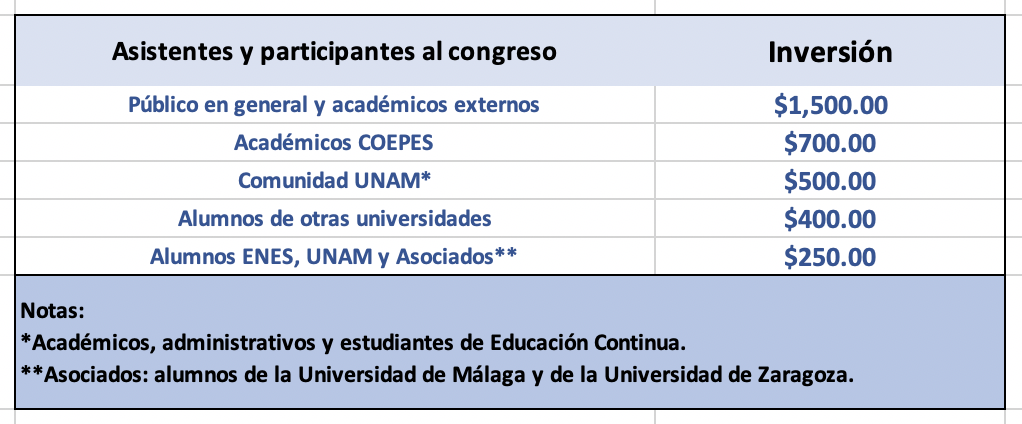
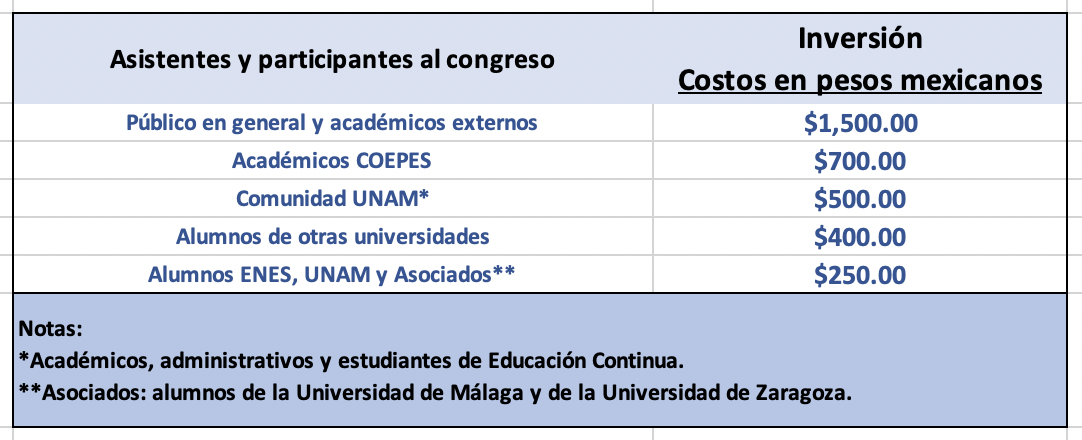
CHANGE tablas 1 y 2

Changed region(s): [[0.0, 0.0, 1.0, 1.0]]

diff --git a/src/app/pages/registro/registro.component.html b/src/app/pages/registro/registro.component.html
@@ -141,7 +141,7 @@
                                         trabajo.</strong>
                                     <!-- <span style="color:brown; background-color:white;"> Costos en
                                     pesos mexicanos</span> -->
-                                    <img src="./assets/congreso/tabla3.png" class="img-fluid">
+                                    <img src="./assets/congreso/tabla2.png" class="img-fluid">
                                 </p>
                                 <br><br>
 
